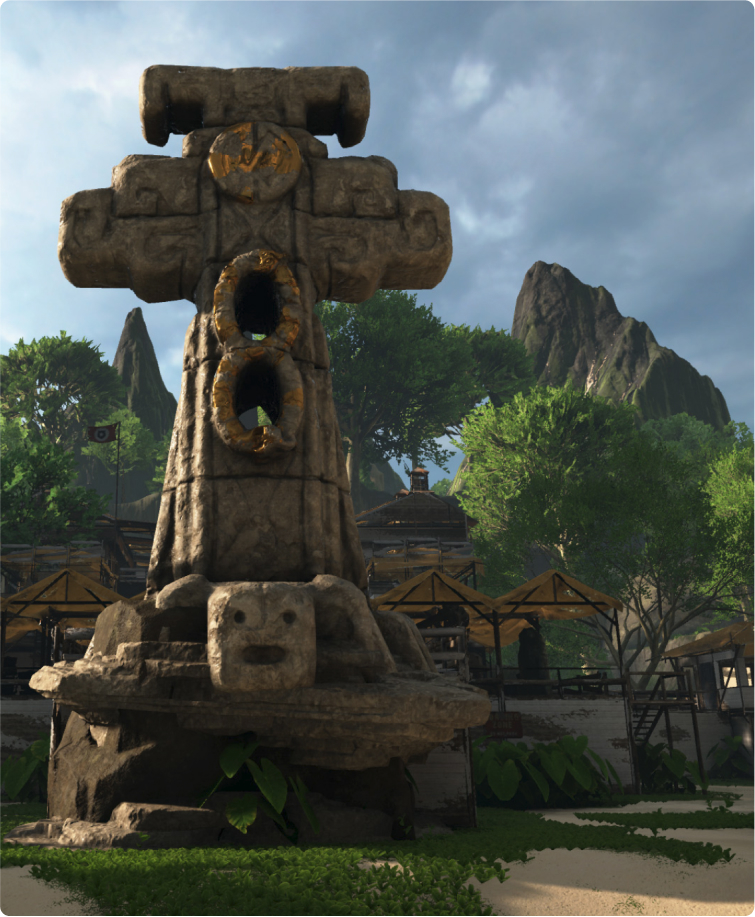
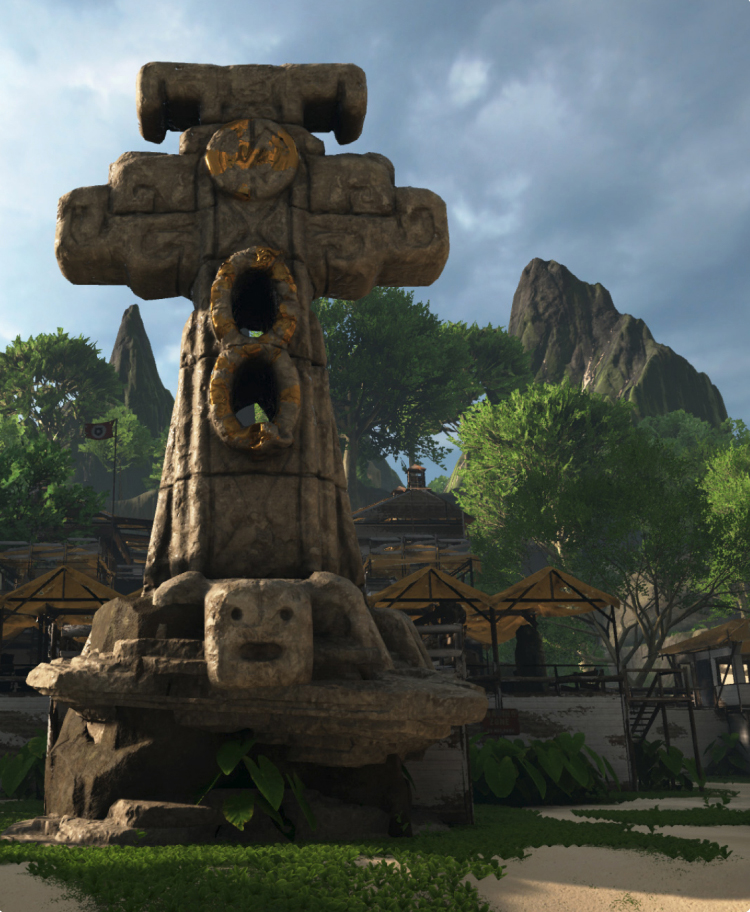
slider

diff --git a/css/style.css b/css/style.css
@@ -60,6 +60,7 @@ body {
 header {
   position: fixed;
   width: 100%;
+  z-index: 99;
 }
 header .container .header-main {
   padding: 20px 0 0 0;
@@ -192,6 +193,7 @@ header .container .header-main .header-last .header-last__links a svg {
   margin: 0 0 28px 0;
 }
 .one .container .first-main .first-info button {
+  cursor: pointer;
   padding: 17px 17px 20px;
   display: -webkit-box;
   display: -ms-flexbox;
@@ -302,6 +304,57 @@ header .container .header-main .header-last .header-last__links a svg {
   max-width: 360px;
   right: 0;
 }
+.two .container .two-main .two-main__slider {
+  margin: 200px 0 0 50px;
+}
+.two .container .two-main .two-main__slider .slider {
+  position: relative;
+  width: 500px;
+  height: 600px;
+}
+.two .container .two-main .two-main__slider .slider button svg {
+  cursor: pointer;
+  position: absolute;
+  right: -140px;
+  top: calc(50% - 18px);
+}
+.two .container .two-main .two-main__slider .slider img {
+  position: absolute;
+  border-radius: 15px;
+  height: 100%;
+  width: 100%;
+}
+.two .container .two-main .two-main__slider .slider .slider-img-1 {
+  z-index: 5;
+  margin-left: 0;
+  -webkit-transform: scale(1);
+      -ms-transform: scale(1);
+          transform: scale(1);
+  -webkit-transition: all 0.5s ease-out;
+  -o-transition: all 0.5s ease-out;
+  transition: all 0.5s ease-out;
+}
+.two .container .two-main .two-main__slider .slider .slider-img-2 {
+  z-index: 4;
+  margin-left: 50px;
+  -webkit-transform: scale(0.95);
+      -ms-transform: scale(0.95);
+          transform: scale(0.95);
+  -webkit-transition: all 0.5s ease-out;
+  -o-transition: all 0.5s ease-out;
+  transition: all 0.5s ease-out;
+}
+.two .container .two-main .two-main__slider .slider .slider-img-3 {
+  z-index: 3;
+  margin-left: 100px;
+  -webkit-transform: scale(0.9);
+      -ms-transform: scale(0.9);
+          transform: scale(0.9);
+  -webkit-transition: all 0.5s ease-out;
+  -o-transition: all 0.5s ease-out;
+  transition: all 0.5s ease-out;
+}
+
 .three {
   height: 1052px;
   background: url("../images/bg/bg-image-3.jpg");

diff --git a/js/main.js b/js/main.js
@@ -1,0 +1,41 @@
+i = 1
+function next() {
+  let img1 = document.querySelector(".slider-img-1");
+  let img2 = document.querySelector(".slider-img-2");
+  let img3 = document.querySelector(".slider-img-3");
+
+  if (i == 0) {
+    img1.style.zIndex = "5"
+    img1.style.marginLeft = "0px"
+    img1.style.transform = 'scale(1)';
+    img2.style.zIndex = "4"
+    img2.style.marginLeft = "50px"
+    img2.style.transform = 'scale(0.95)';
+    img3.style.zIndex = "3"
+    img3.style.marginLeft = "100px"
+    img3.style.transform = 'scale(0.9)';
+    i += 1
+  } else if (i == 1) {
+    img1.style.zIndex = "4"
+    img1.style.marginLeft = "100px"
+    img1.style.transform = 'scale(0.9)';
+    img2.style.zIndex = "5"
+    img2.style.marginLeft = "0px"
+    img2.style.transform = 'scale(1)';
+    img3.style.zIndex = "4"
+    img3.style.marginLeft = "50px"
+    img3.style.transform = 'scale(0.95)';
+    i += 1
+  } else {
+    img1.style.zIndex = "4"
+    img1.style.marginLeft = "50px"
+    img1.style.transform = 'scale(0.95)';
+    img2.style.zIndex = "3"
+    img2.style.marginLeft = "100px"
+    img2.style.transform = 'scale(0.9)';
+    img3.style.zIndex = "5"
+    img3.style.marginLeft = "0px"
+    img3.style.transform = 'scale(1)';
+    i = 0
+  }
+};

diff --git a/index.html b/index.html
@@ -93,7 +93,23 @@
 							Making the right decisions could be the
 							difference between life and death.</p>
 					</div>
-					<div class="two-main__slider"></div>
+					<div class="two-main__slider">
+						<div class="slider">
+							<img src="images/slider/slider-1.jpg" alt="" class="slider-img-1 slider-img">
+							<img src="images/slider/slider-2.jpg" alt="" class="slider-img-2 slider-img">
+							<img src="images/slider/slider-3.jpg" alt="" class="slider-img-3 slider-img">
+							<button>
+
+								<svg width="18" height="38" viewBox="0 0 18 38" fill="none" xmlns="http://www.w3.org/2000/svg"
+									onclick="next()">
+									<path d="M1.82153 1.95628L1.82153 36.0297L15.5642 19.1837L1.82153 1.95628Z" stroke="white"
+										stroke-width="3.36454" stroke-linecap="round" stroke-linejoin="round" />
+								</svg>
+							</button>
+						</div>
+						<!-- <button class="next" onclick="next()">NEXT</button> -->
+
+					</div>
 				</div>
 			</div>
 		</section>
@@ -106,6 +122,8 @@
 			</div>
 		</section>
 	</div>
+
+	<script src="js/main.js"></script>
 </body>
 
 </html>

diff --git a/sass/blocks/_two.sass b/sass/blocks/_two.sass
@@ -49,3 +49,34 @@
           right: 0
 
       .two-main__slider
+        margin: 200px 0 0 50px
+        .slider
+          position: relative
+          width: 500px
+          height: 600px
+          button
+            svg
+              cursor: pointer
+              position: absolute
+              right: -140px
+              top: calc(50% - 18px)
+          img
+            position: absolute
+            border-radius: 15px
+            height: 100%
+            width: 100%
+          .slider-img-1
+            z-index: 5
+            margin-left: 0
+            transform: scale(1)
+            transition: all 0.5s ease-out
+          .slider-img-2
+            z-index: 4
+            margin-left: 50px
+            transform: scale(0.95)
+            transition: all 0.5s ease-out
+          .slider-img-3
+            z-index: 3
+            margin-left: 100px
+            transform: scale(0.9)
+            transition: all 0.5s ease-out

diff --git a/sass/blocks/_one.sass b/sass/blocks/_one.sass
@@ -35,6 +35,7 @@
                     margin: 0 0 28px 0
 
                 button
+                    cursor: pointer
                     padding: 17px 17px 20px
                     display: flex
                     align-items: center

diff --git a/sass/blocks/_header.sass b/sass/blocks/_header.sass
@@ -1,6 +1,7 @@
 header
     position: fixed
     width: 100%
+    z-index: 99
     .container
         .header-main
             padding: 20px 0 0 0
